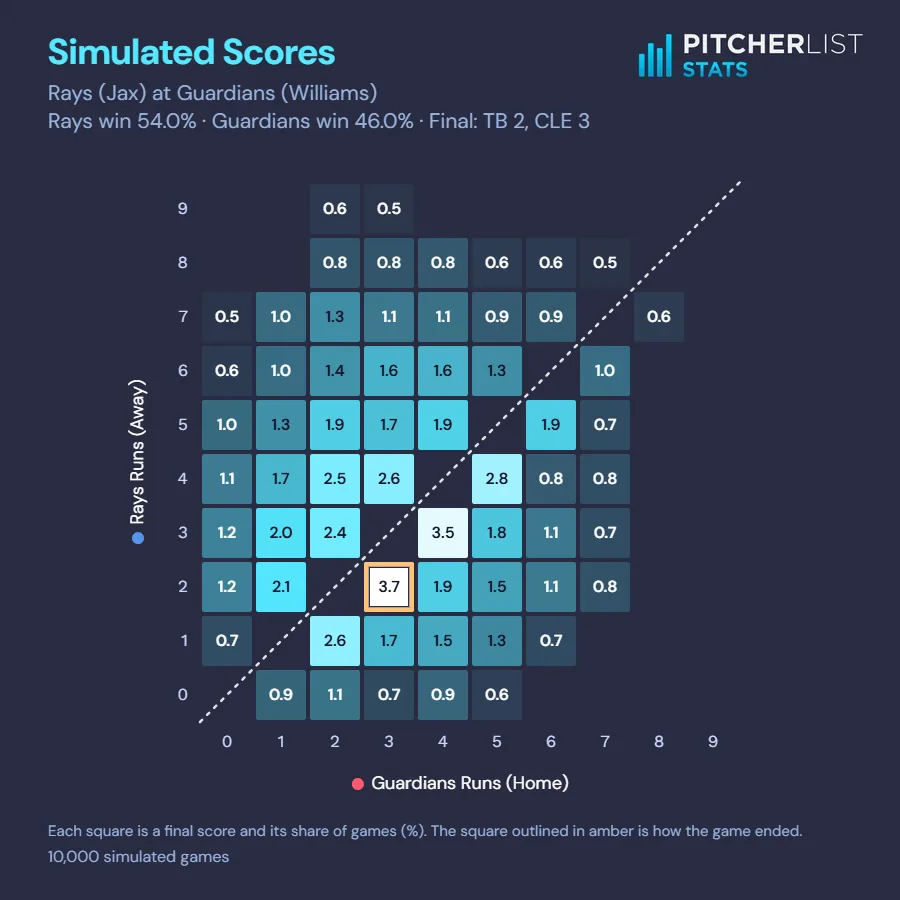
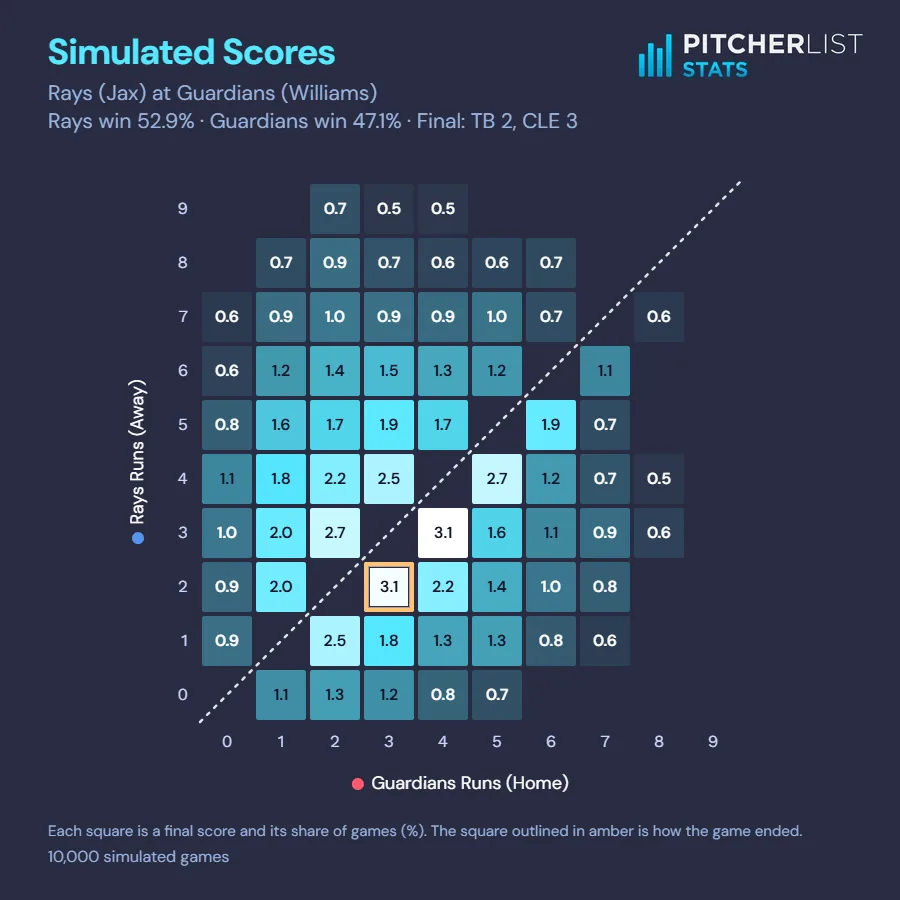
Homepage: the Game Sim tile from the new engine (bullpen by the score)
At the user's direction, after #271: game 849818 again, captured from the live
/game-sim/ with grab_app_pngs.py and rebuilt with make_tiles.py (?v=3).

diff --git a/index.html b/index.html
@@ -168,7 +168,7 @@
 								</article>
 									<article class="style4">
 									<span class="image">
-										<img src="images/tile-game-sim.webp?v=2" srcset="images/tile-game-sim-720.webp?v=2 720w, images/tile-game-sim.webp?v=2 900w" sizes="(max-width: 480px) 100vw, (max-width: 980px) 50vw, 380px" width="900" height="900" alt="Every simulated final score of the 2026 ALCS Game 3, Rays at Guardians, with the real 3-2 final outlined" />
+										<img src="images/tile-game-sim.webp?v=3" srcset="images/tile-game-sim-720.webp?v=3 720w, images/tile-game-sim.webp?v=3 900w" sizes="(max-width: 480px) 100vw, (max-width: 980px) 50vw, 380px" width="900" height="900" alt="Every simulated final score of the 2026 ALCS Game 3, Rays at Guardians, with the real 3-2 final outlined" />
 									</span>
 									<a href="/game-sim/">
 										<h2>Game Sim</h2>
